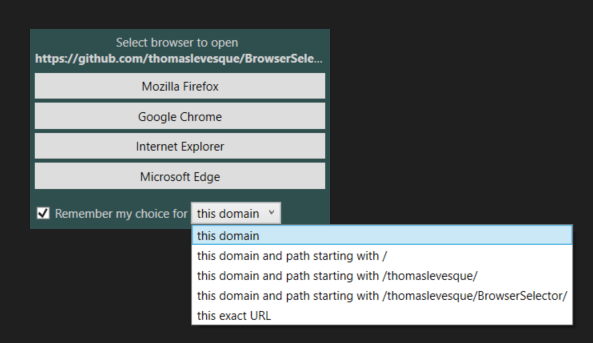
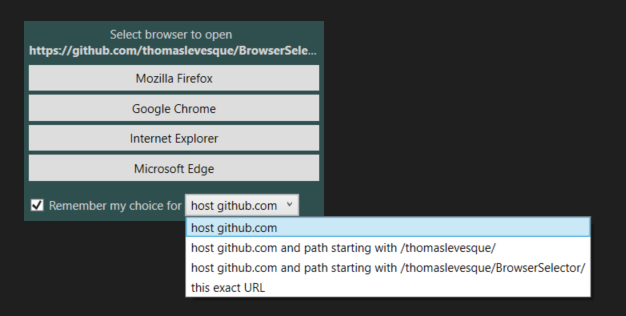
Improve rule suggestions

Changed region(s): [[0.0304, 0.057, 0.9713, 0.9684]]

diff --git a/BrowserSelector/ViewModel/BrowserPickerViewModel.cs b/BrowserSelector/ViewModel/BrowserPickerViewModel.cs
@@ -50,14 +50,17 @@ public class BrowserPickerViewModel : BindableBase
 
     private static IEnumerable<UrlMatcherSuggestion> CreateMatcherSuggestions(Uri uri)
     {
-        yield return new(UrlMatchType.Authority, uri.Authority, "this domain");
+        yield return new(UrlMatchType.Authority, uri.Authority, $"host {uri.Authority}");
         var segments = uri.Segments;
         for (int i = 0; i < segments.Length; i++)
         {
             if (!segments[i].EndsWith('/'))
                 break;
             var pathPrefix = string.Concat(segments.Take(i + 1));
-            yield return new(UrlMatchType.AuthorityAndPath, uri.Authority + uri.AbsolutePath, $"this domain and path starting with {pathPrefix}");
+            if (pathPrefix == "/")
+                continue;
+
+            yield return new(UrlMatchType.AuthorityAndPath, uri.Authority + uri.AbsolutePath, $"host {uri.Authority} and path starting with {pathPrefix}");
         }
         yield return new(UrlMatchType.Exact, uri.AbsoluteUri, "this exact URL");
     }
